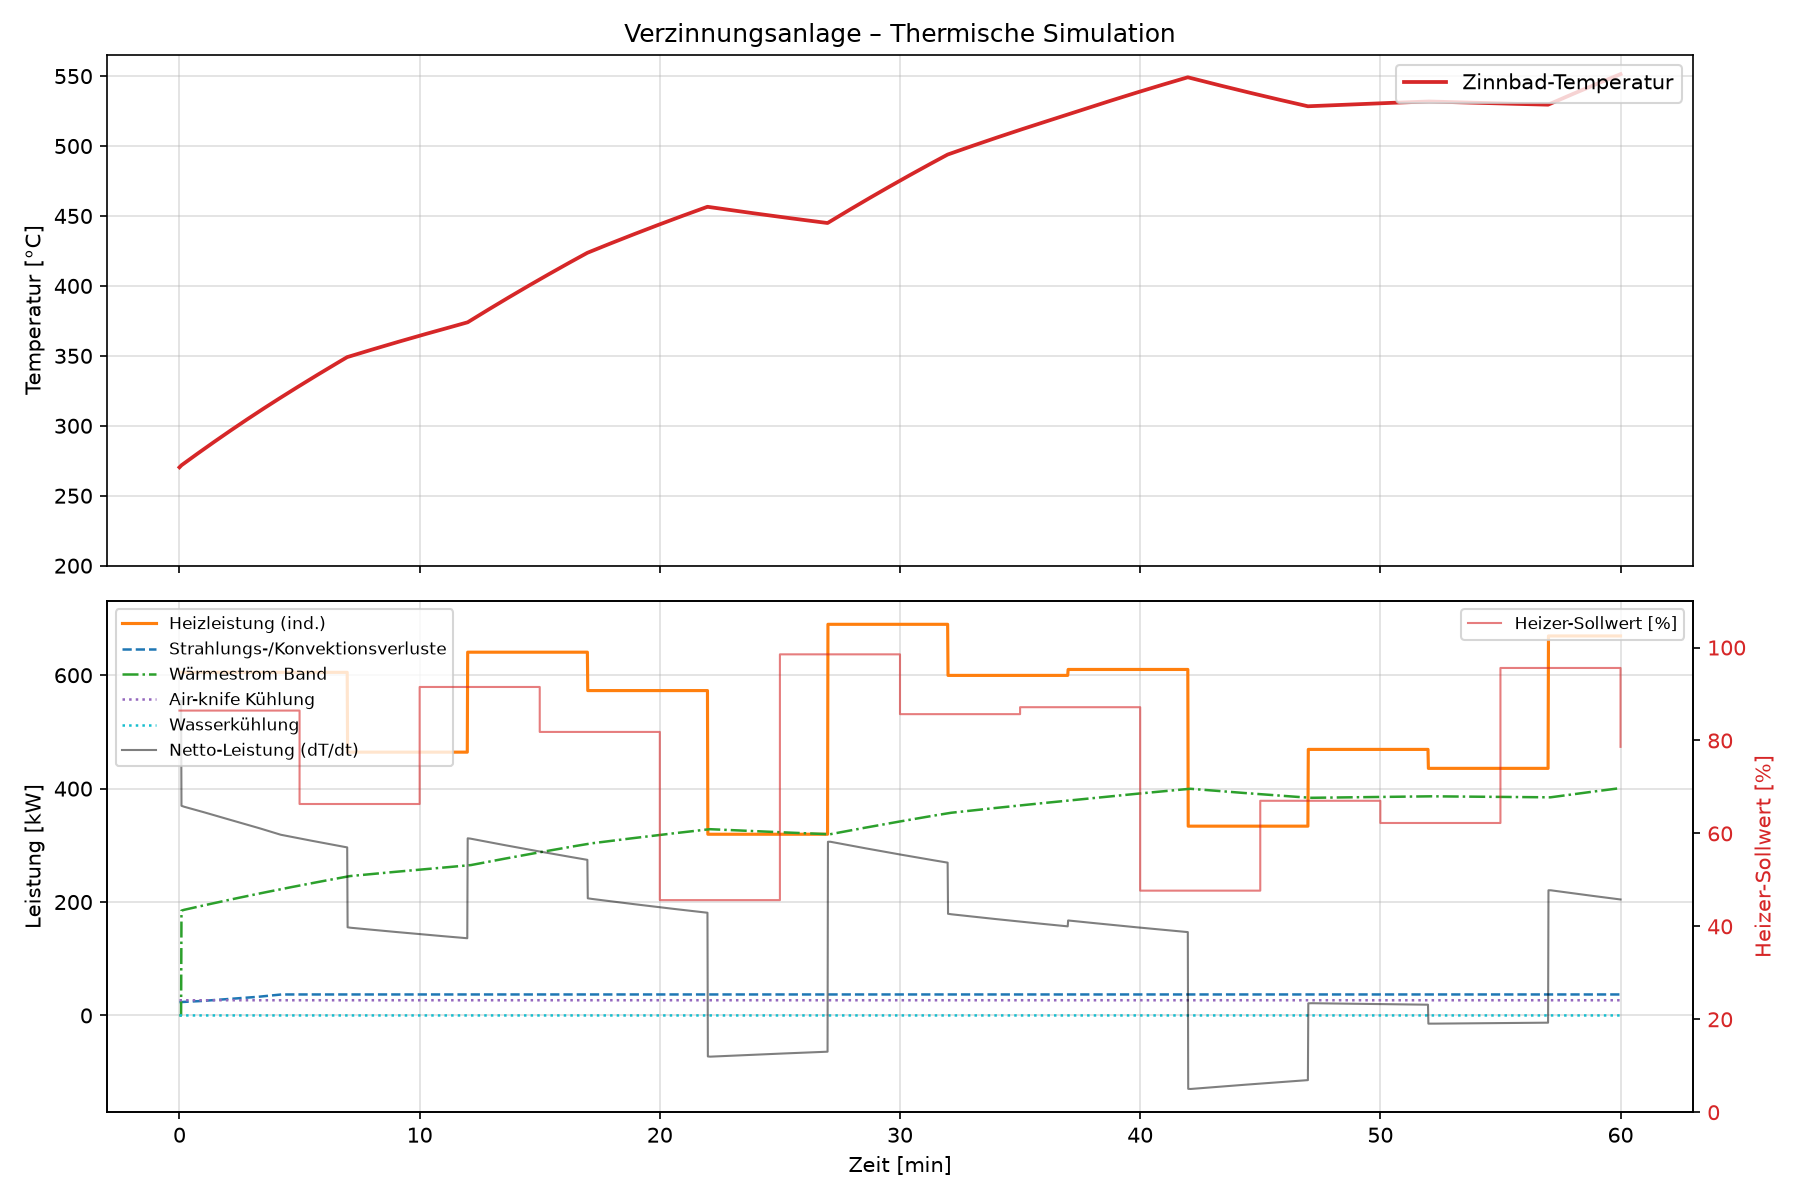
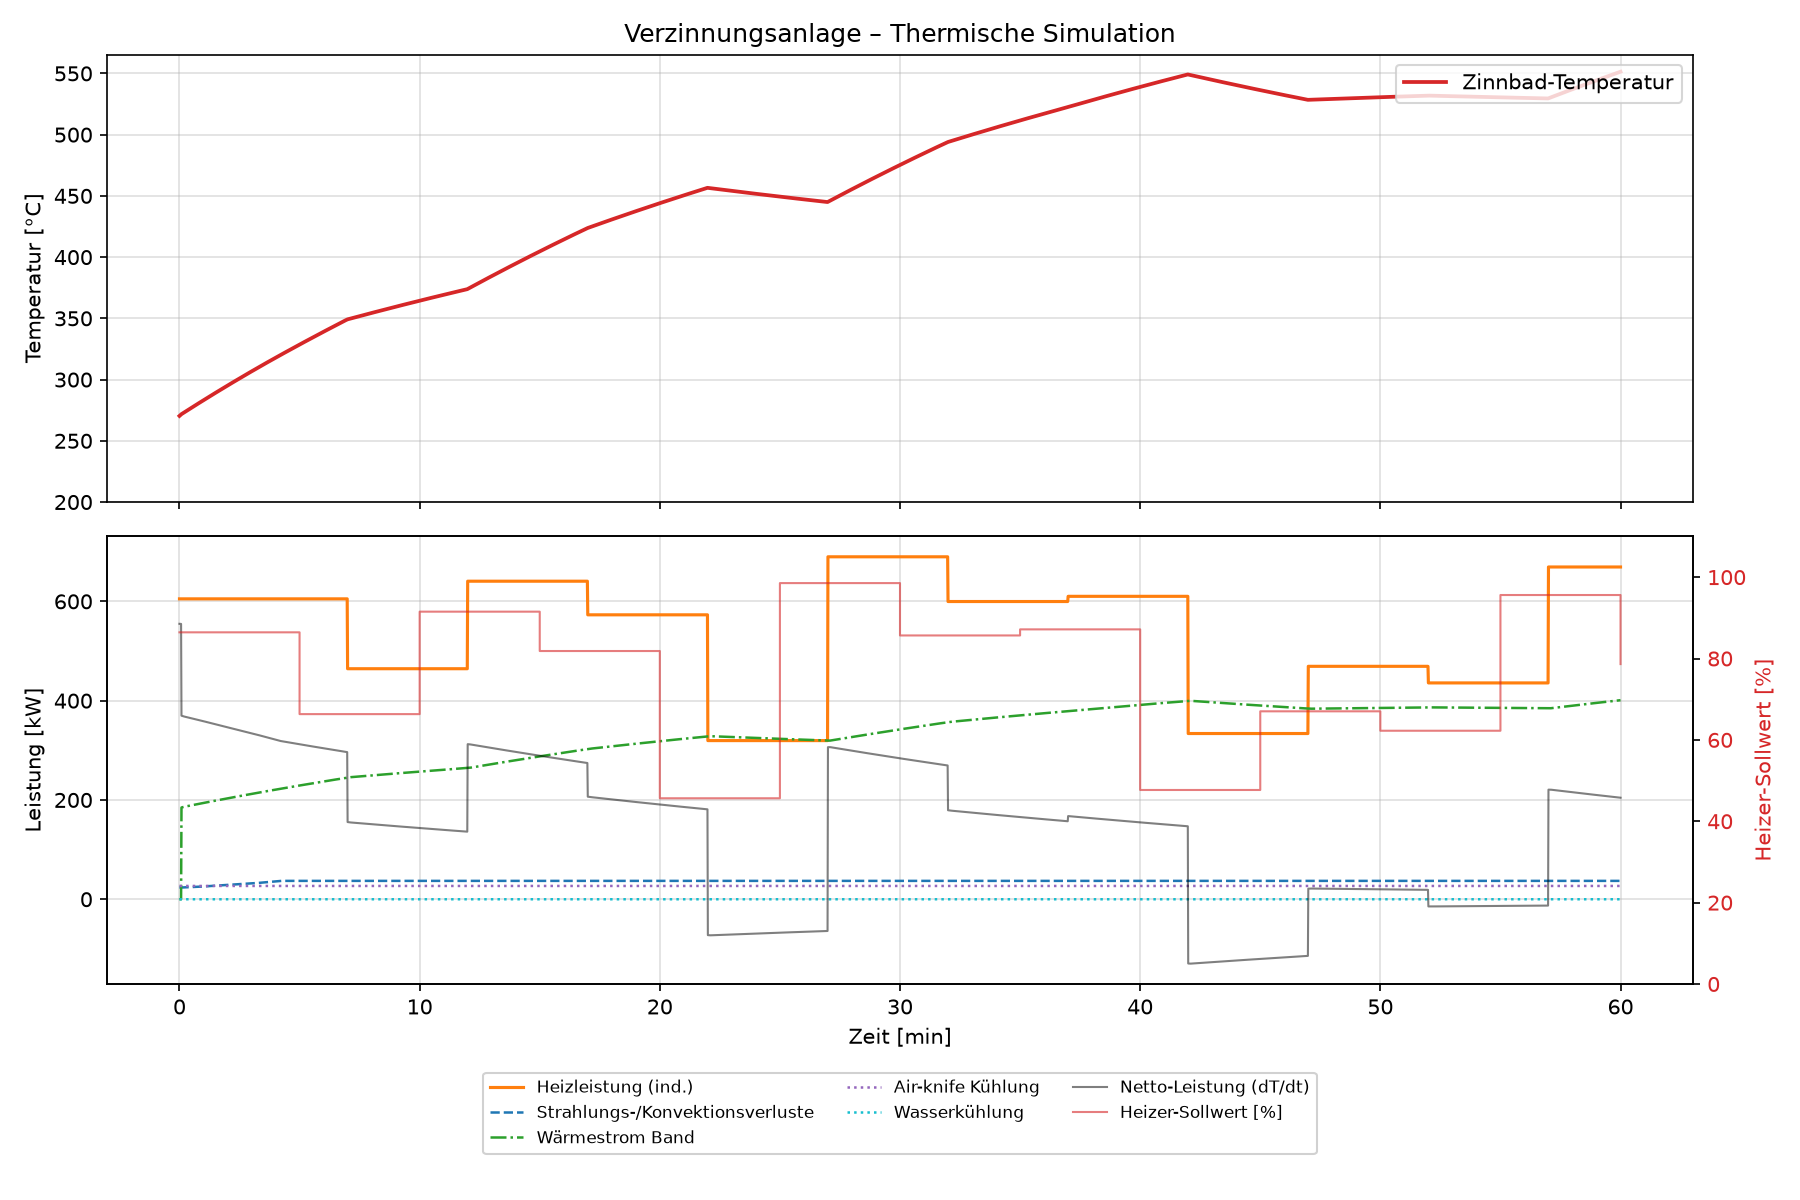
Move power-plot legend below axes to stop it blocking the curves
Merge the two separate ax2/ax2r legends into one shared legend placed
under the power panel (bbox_to_anchor below x-axis, ncol=3) and add
subplots_adjust to reserve space for it.

diff --git a/simulation.py b/simulation.py
@@ -291,7 +291,6 @@ def plot_results(results: dict):
              color='black',      linewidth=1.0, linestyle='-', alpha=0.5)
     ax2.set_ylabel('Leistung [kW]')
     ax2.set_xlabel('Zeit [min]')
-    ax2.legend(loc='upper left', fontsize=8)
     ax2.grid(True, alpha=0.4)
 
     # Second y-axis: heater fraction [%]
@@ -301,9 +300,16 @@ def plot_results(results: dict):
     ax2r.set_ylabel('Heizer-Sollwert [%]', color='tab:red')
     ax2r.tick_params(axis='y', labelcolor='tab:red')
     ax2r.set_ylim(0, 110)
-    ax2r.legend(loc='upper right', fontsize=8)
+
+    # Merge handles from both axes into one legend below the power plot
+    handles_left,  labels_left  = ax2.get_legend_handles_labels()
+    handles_right, labels_right = ax2r.get_legend_handles_labels()
+    ax2.legend(handles_left + handles_right, labels_left + labels_right,
+               loc='upper center', bbox_to_anchor=(0.5, -0.18),
+               ncol=3, fontsize=8, framealpha=0.9)
 
     plt.tight_layout()
+    plt.subplots_adjust(bottom=0.18)  # make room for the legend below the lower panel
     plt.savefig('simulation_results.png', dpi=150)
     plt.close()
     print("Plot saved to simulation_results.png")
